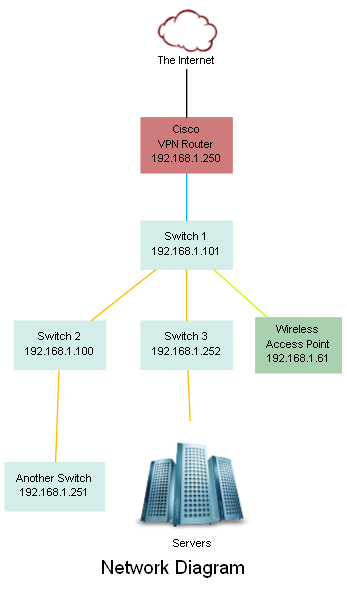
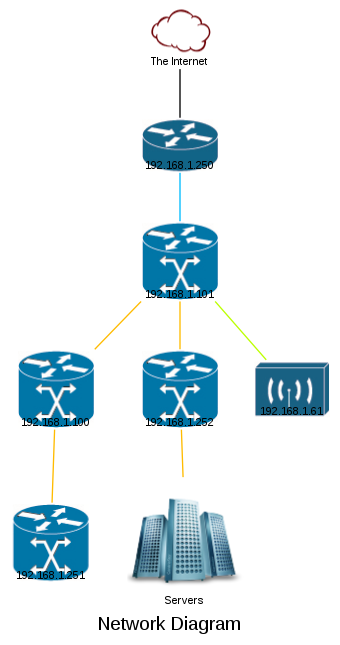
Added a few images which I downloaded from Cisco Incorporated them into the dot file added a Makefile Updated README

diff --git a/README.md b/README.md
@@ -7,3 +7,13 @@ Each step has the code and the resultant image that was created.
 Once graphviz was installed correctly, I used the command:
     dot.exe -Tpng graph.graphviz -o graph.png
 to create the images.
+
+(Or, use `make` on a GNU/Linux system)
+
+### Icons
+
+The Cisco icons are available for download, at the following location:
+
+[http://www.cisco.com/web/about/ac50/ac47/2.html](Cisco Icons)
+
+(converted the `.jpg` to `.png`)
